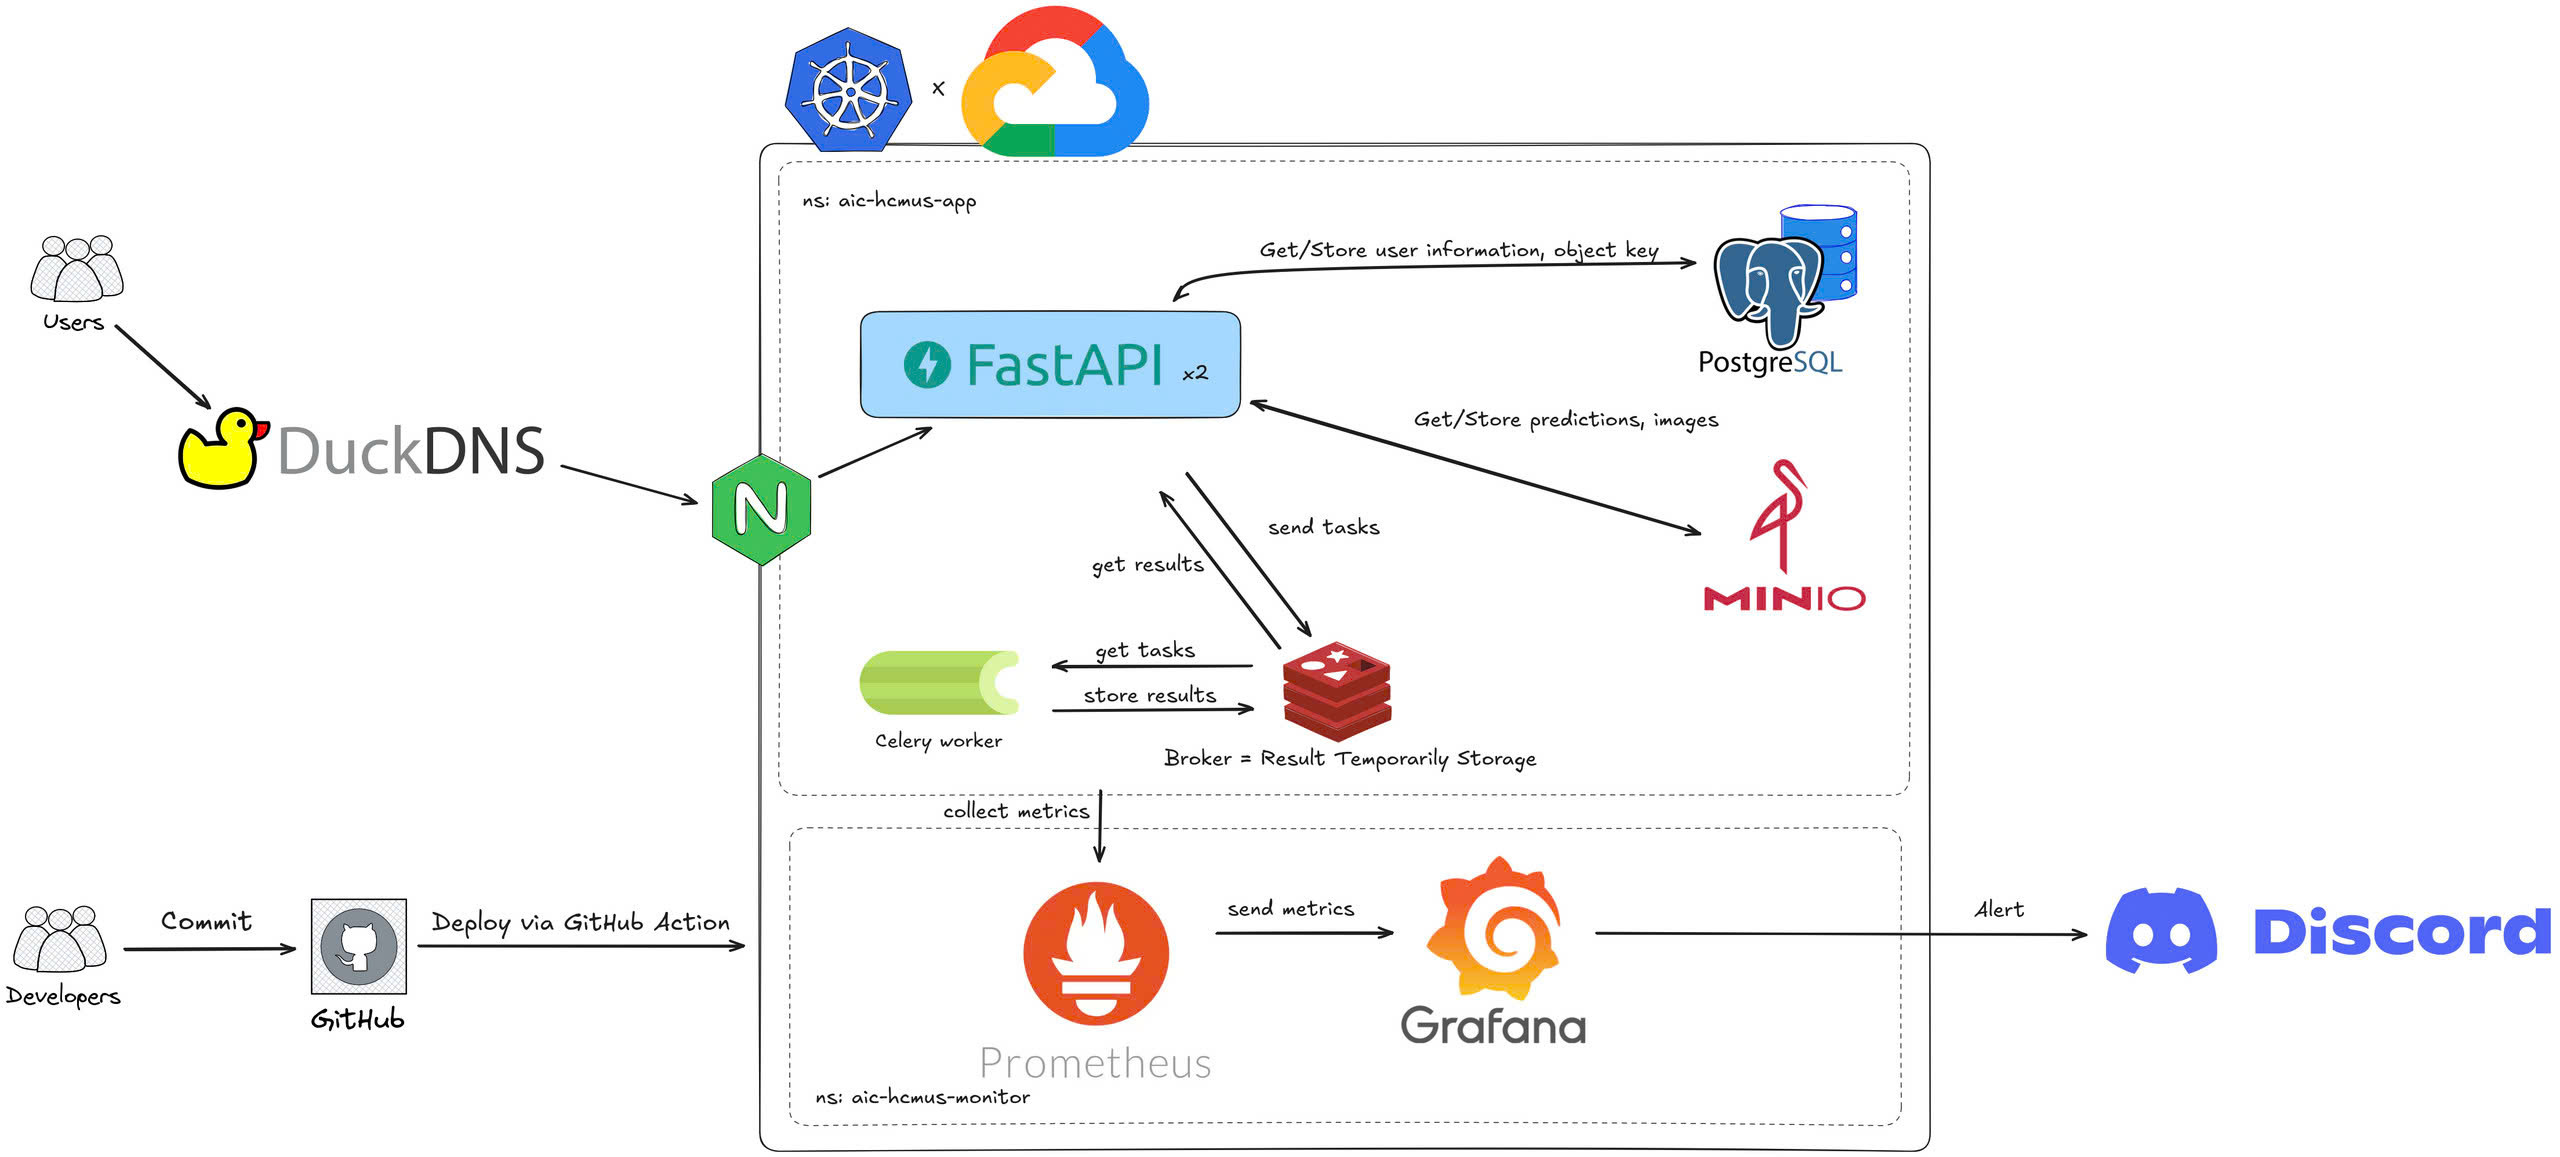
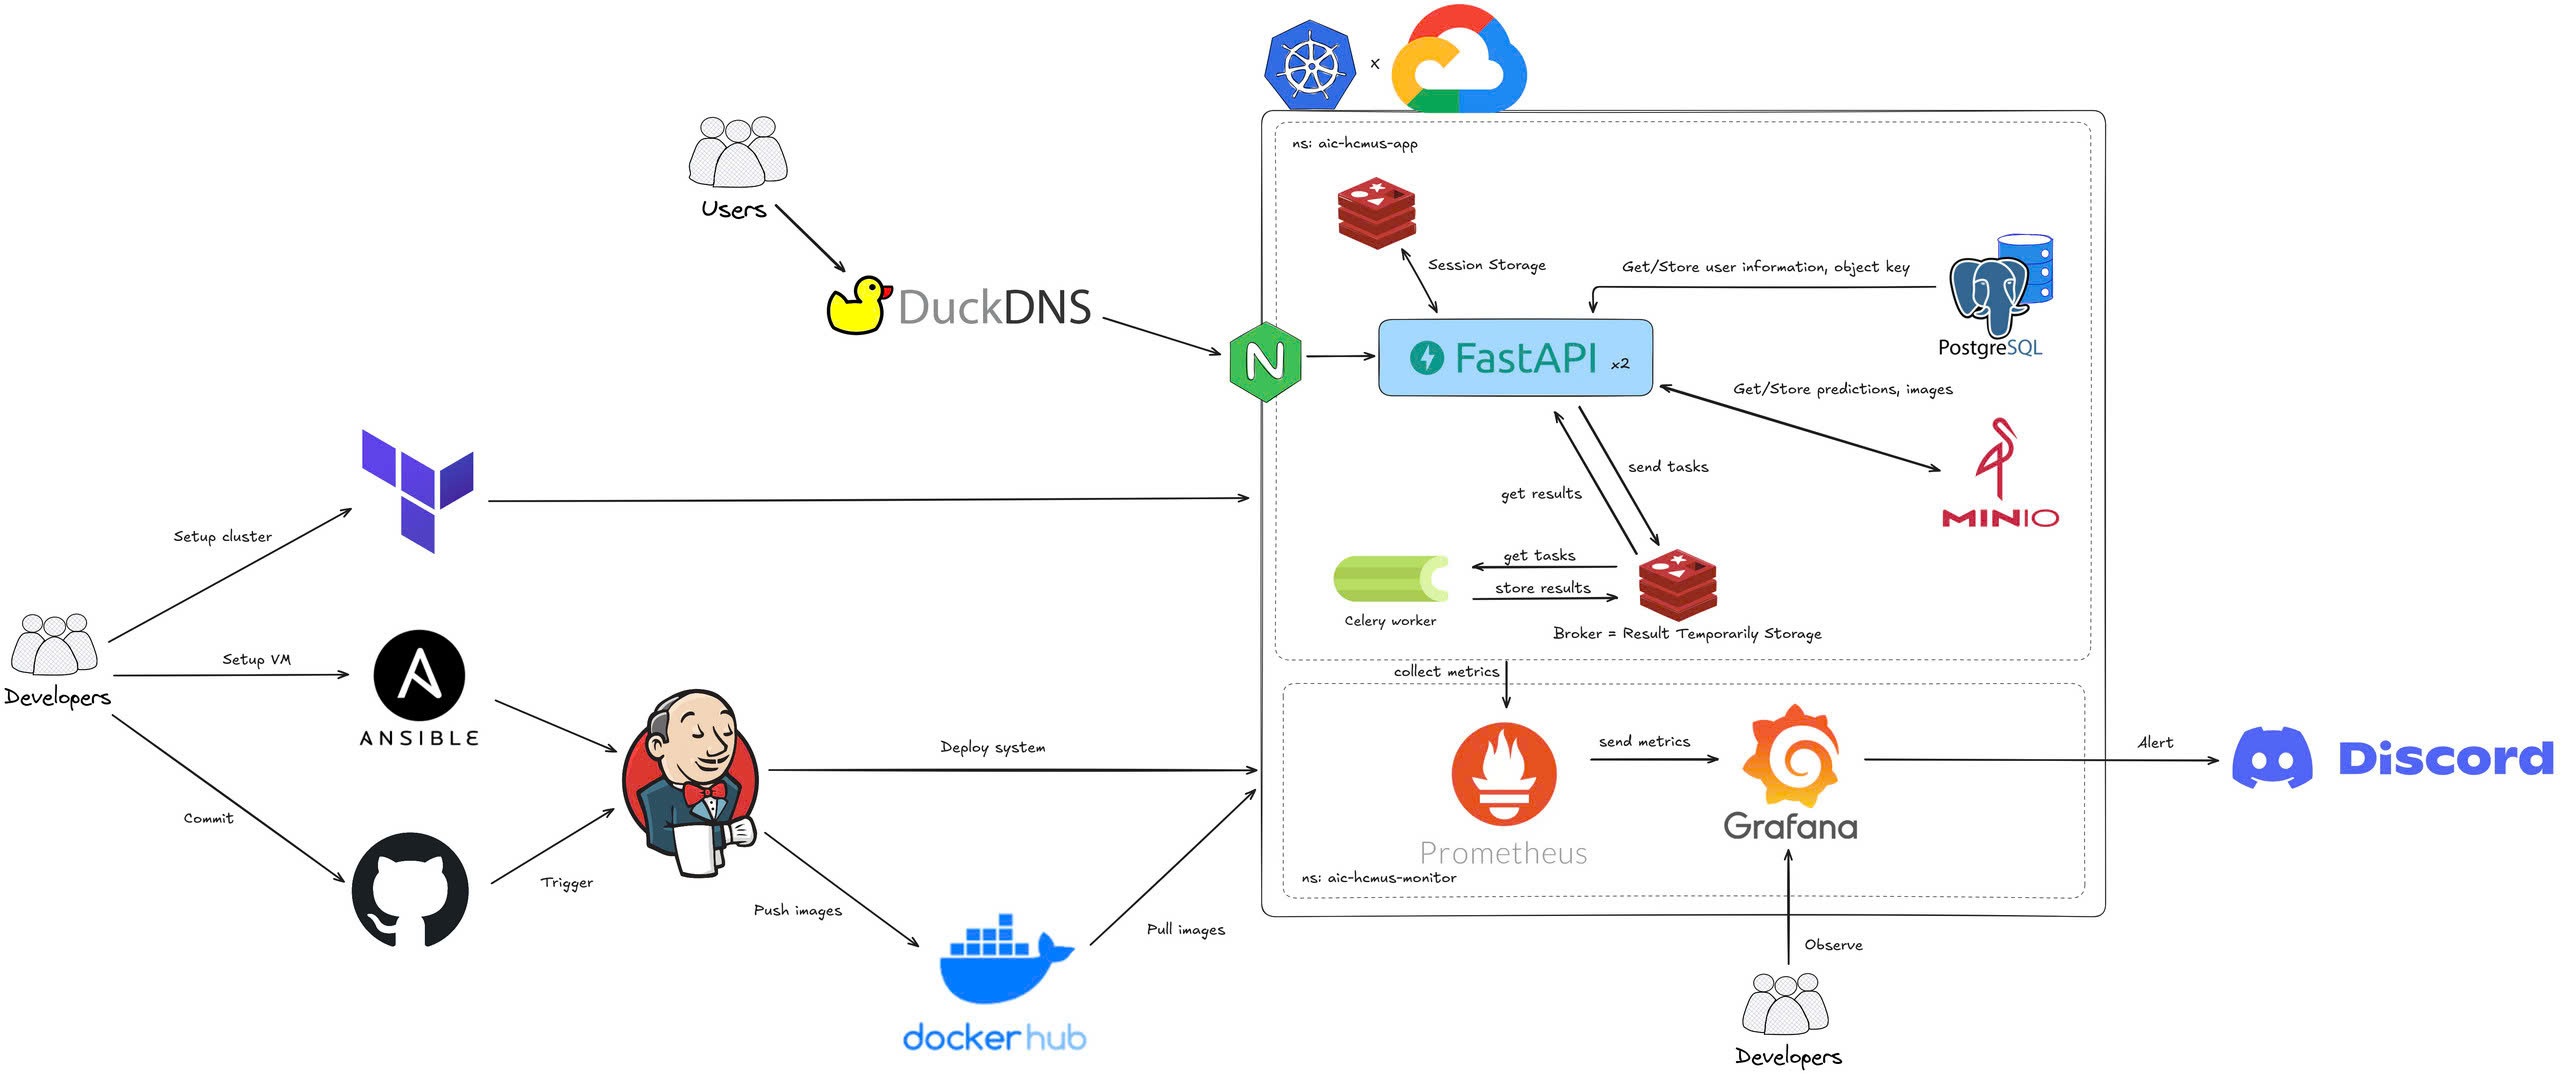
Enhance README.md with new features and update the app architecture image.

diff --git a/README.md b/README.md
@@ -1,16 +1,25 @@
 # AIC-HCMUS Fragment Segmentation Application Summary
 
-## Overview
+## ✨ New Features
+
+- 🏗 **Infrastructure as Code (IaC):** Automated provisioning and management using **Terraform** and **Ansible**.
+- 🔄 **CI/CD with Jenkins:** Switched from GitHub Actions to **Jenkins** for continuous integration and deployment.
+- 🗄 **Redis Session Storage:** Added a dedicated **Redis** instance for session storage, enabling seamless horizontal scaling.
+- 🚀 **Helm Chart Deployment:** Deploy the entire stack to **Google Kubernetes Engine (GKE)** using a custom **Helm Chart**.
+
+---
+
+## 🗂 Overview
 This application is a full-stack solution for fragment segmentation, built for the HCMUS AI Challenge. It includes a **React frontend**, a **FastAPI backend**, and supporting services like **PostgreSQL**, **MinIO**, **Celery worker**, **Redis**, and **NGINX**. **Grafana** and **Prometheus** have been added to this app for observation and alerting to Discord. The application is containerized using **Docker** and orchestrated with **Kubernetes** for deployment. This project contains a pipeline to automatically deploy the app to Google Kubernetes Engine (GKE).
 
 ---
 
-## System Architecture
+## 🏛 System Architecture
 ![App Architecture](frontend/public/app-architecture.jpg)
 
 ---
 
-## Folder Structure
+## 📁 Folder Structure
 ```
 .
 ├── backend              # Backend, built with FastAPI
@@ -36,68 +45,79 @@ This application is a full-stack solution for fragment segmentation, built for t
 
 ---
 
-## Key Features
-1. **Frontend**:
-   - Built with **React** and **TypeScript**.
-   - Uses **TailwindCSS** for styling.
-   - Implements **React Router** for navigation.
-   - Provides manual user authentication (login/register) and OAuth2 to use Google Account for login.
-   - Allows users to upload images, view predictions, and visualize results (e.g., overlaid masks, **Equivalent Diameter (ED)** chart).
-   - Users can see their previous images and download them.
+## 🌟 Key Features
+1. 🖥 **Frontend**:
+   - ⚛ Built with **React** and **TypeScript**.
+   - 🎨 Uses **TailwindCSS** for styling.
+   - 🧭 Implements **React Router** for navigation.
+   - 🔐 Provides manual user authentication (login/register) and OAuth2 to use Google Account for login.
+   - 🖼 Allows users to upload images, view predictions, and visualize results (e.g., overlaid masks, **Equivalent Diameter (ED)** chart).
+   - 📂 Users can see their previous images and download them.
 
-2. **Backend**:
-   - Built with **FastAPI**.
-   - Handles user authentication with JWT tokens.
-   - Provides endpoints for image upload, prediction, and fetching results.
-   - Integrates with **YOLOv11m** for segmentation and particle size calculation.
-   - Stores metadata and predictions in **PostgreSQL**.
-   - Uses **MinIO** for object storage (e.g., images, binary masks).
-   - Uses **Celery** for asynchronous task processing (e.g., running predictions in the background) with **Redis** as the message broker.
-   - **Prometheus** is used for monitoring metrics.
-   - **Grafana** is used for dashboard visualization and alerting.
-   - **Grafana alerts** are configured to send notifications to **Discord**.
+2. 🖧 **Backend**:
+   - ⚡ Built with **FastAPI**.
+   - 🔑 Handles user authentication with JWT tokens.
+   - 📤 Provides endpoints for image upload, prediction, and fetching results.
+   - 🤖 Integrates with **YOLOv11m** for segmentation and particle size calculation.
+   - 🗃 Stores metadata and predictions in **PostgreSQL**.
+   - 🗄 Uses **MinIO** for object storage (e.g., images, binary masks).
+   - 🕒 Uses **Celery** for asynchronous task processing (e.g., running predictions in the background) with **Redis** as the message broker.
+   - 📈 **Prometheus** is used for monitoring metrics.
+   - 📊 **Grafana** is used for dashboard visualization and alerting.
+   - 🔔 **Grafana alerts** are configured to send notifications to **Discord**.
 
-3. **Machine Learning**:
-   - The app uses a YOLOv11m segmentation model. This model has been fine-tuned on the Rock Fragment Dataset. The backend will download it from [Hugging Face](https://huggingface.co/magnusdtd/aic-hcmus-2025-yolo11m-seg).
-   - Detects calibration objects (red balls) to convert pixel values to real-world values.
-   - Generates overlaid masks and draws a CDF chart of the ED distribution.
+3. 🧠 **Machine Learning**:
+   - 🦾 The app uses a YOLOv11m segmentation model. This model has been fine-tuned on the Rock Fragment Dataset. The backend will download it from [Hugging Face](https://huggingface.co/magnusdtd/aic-hcmus-2025-yolo11m-seg).
+   - 🎯 Detects calibration objects (red balls) to convert pixel values to real-world values.
+   - 🖌 Generates overlaid masks and draws a CDF chart of the ED distribution.
 
-4. **Infrastructure**:
-   - **Docker Compose** for local development.
-   - **Kubernetes** manifests for deployment (app, PostgreSQL, MinIO, NGINX).
-   - CI/CD pipeline using **GitHub Actions** to build and deploy to **Google Kubernetes Engine (GKE)**.
-   - Uses a Celery worker and **Redis** as the message broker for task queuing.
-   - **Prometheus** and **Grafana** for monitoring and alerting.
-   - **DuckDNS** is used to provide a public domain for accessing the application after deployment on Google Cloud.
+4. 🏗 **Infrastructure**:
+   - 🐳 **Docker Compose** for local development.
+   - ☸ **Kubernetes** manifests for deployment (app, PostgreSQL, MinIO, NGINX).
+   - 🔄 CI/CD pipeline using **GitHub Actions** to build and deploy to **Google Kubernetes Engine (GKE)**.
+   - 🕒 Uses a Celery worker and **Redis** as the message broker for task queuing.
+   - 📈 **Prometheus** and **Grafana** for monitoring and alerting.
+   - 🦆 **DuckDNS** is used to provide a public domain for accessing the application after deployment on Google Cloud.
 
 ---
 
-## Deployment Workflow
-1. **Local Development**:
+## 🚀 Deployment Workflow
+1. 🛠 **Local Development**:
    - Use `docker-compose.yml` to spin up services locally.
    - The app runs on `https://localhost:443`.
 
-2. **CI/CD Pipeline**:
+2. 🔄 **CI/CD Pipeline**:
    - Triggered on `deploy` branch push.
    - Builds Docker images and pushes them to **Google Container Registry (GCR)**.
    - Deploys to **Google Kubernetes Engine (GKE)** using Kubernetes manifests.
 
-3. **Production Deployment**:
+3. 🌐 **Production Deployment**:
    - The app services are deployed in the `aic-hcmus-app` namespace, and the monitoring services are deployed in the `aic-hcmus-monitor` namespace.
-   - NGINX serves as a reverse proxy and load balancer for the frontend and backend.
+   - 🕸 NGINX serves as a reverse proxy and load balancer for the frontend and backend.
 
 ---
 
-## Technologies Used
-- **Frontend**: React, TypeScript, TailwindCSS, Vite.
-- **Backend**: FastAPI, SQLModel, MinIO, YOLOv11m-seg, Celery.
-- **Database**: PostgreSQL.
-- **S3 Storage**: MinIO.
-- **Task Queue**: Celery with Redis as the message broker.
-- **Containerization**: Docker.
-- **Orchestration**: Kubernetes.
-- **CI/CD**: GitHub Actions.
-- **Cloud**: Google Kubernetes Engine (GKE).
+## 🛠 System Setup Guide
+
+To set up the entire system:
+
+1. 📖 **Follow the [IaC Readme](iac/Readme.md)** for infrastructure provisioning, Jenkins setup, and prerequisites.
+2. 📖 **Then follow the [Helm Chart Readme](k8s/helm/README.md)** for application deployment and configuration on Kubernetes.
+
+These files contain all the detailed, up-to-date instructions for a successful deployment.
+
+---
+
+## 🛠 Technologies Used
+- **Frontend**: ⚛ React, 🟦 TypeScript, 🎨 TailwindCSS, ⚡ Vite.
+- **Backend**: ⚡ FastAPI, 🟦 SQLModel, 🗄 MinIO, 🤖 YOLOv11m-seg, 🕒 Celery.
+- **Database**: 🐘 PostgreSQL.
+- **S3 Storage**: 🗄 MinIO.
+- **Task Queue**: 🕒 Celery with 🟥 Redis as the message broker.
+- **Containerization**: 🐳 Docker.
+- **Orchestration**: ☸ Kubernetes.
+- **CI/CD**: 🔄 GitHub Actions.
+- **Cloud**: ☁ Google Kubernetes Engine (GKE).
 
 ---
 For more details about this application, please read the [documentation page](https://magnusdtd.github.io/AIC-HCMUS-Fragment-Segmentation/).
